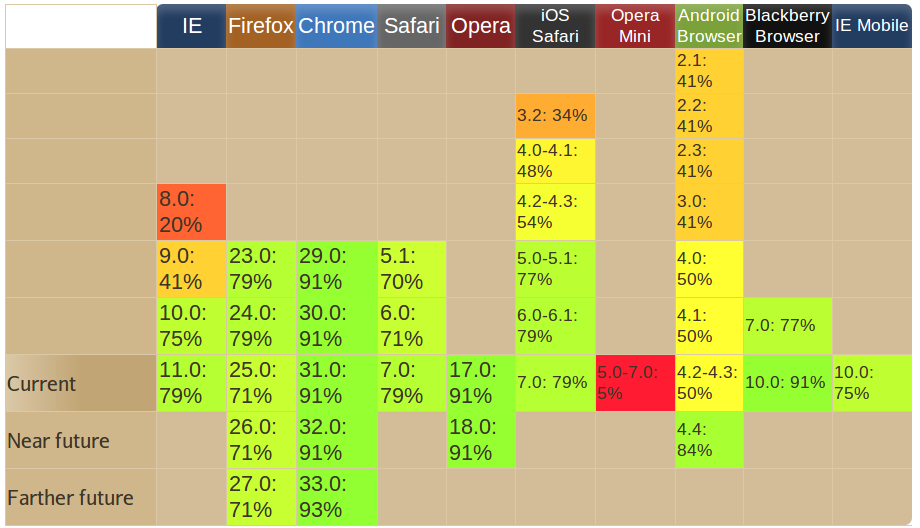
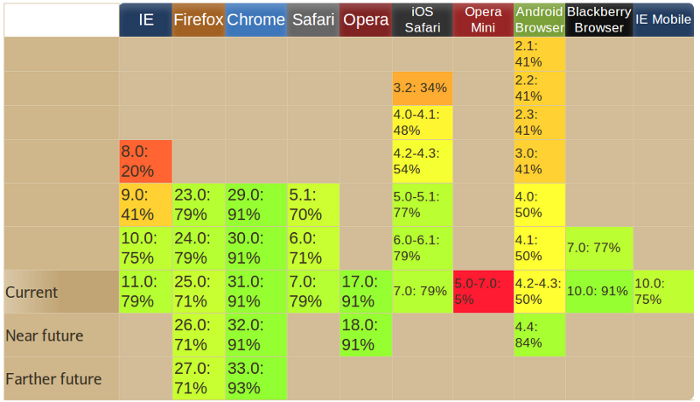
resize caniuse, cout test

diff --git a/index.html b/index.html
@@ -192,11 +192,7 @@
 
                     <section>
                         <h2>Maintenant qu'il y a un serveur...</h2>
-                        <ul>
-                            <li>
-                                TODO
-                            </li>
-                        </ul>
+                        <p>Il faut <b>stuber</b>, <b>mocker</b> et <b>facker</b> !</p>
                     </section>
 
                     <section>
